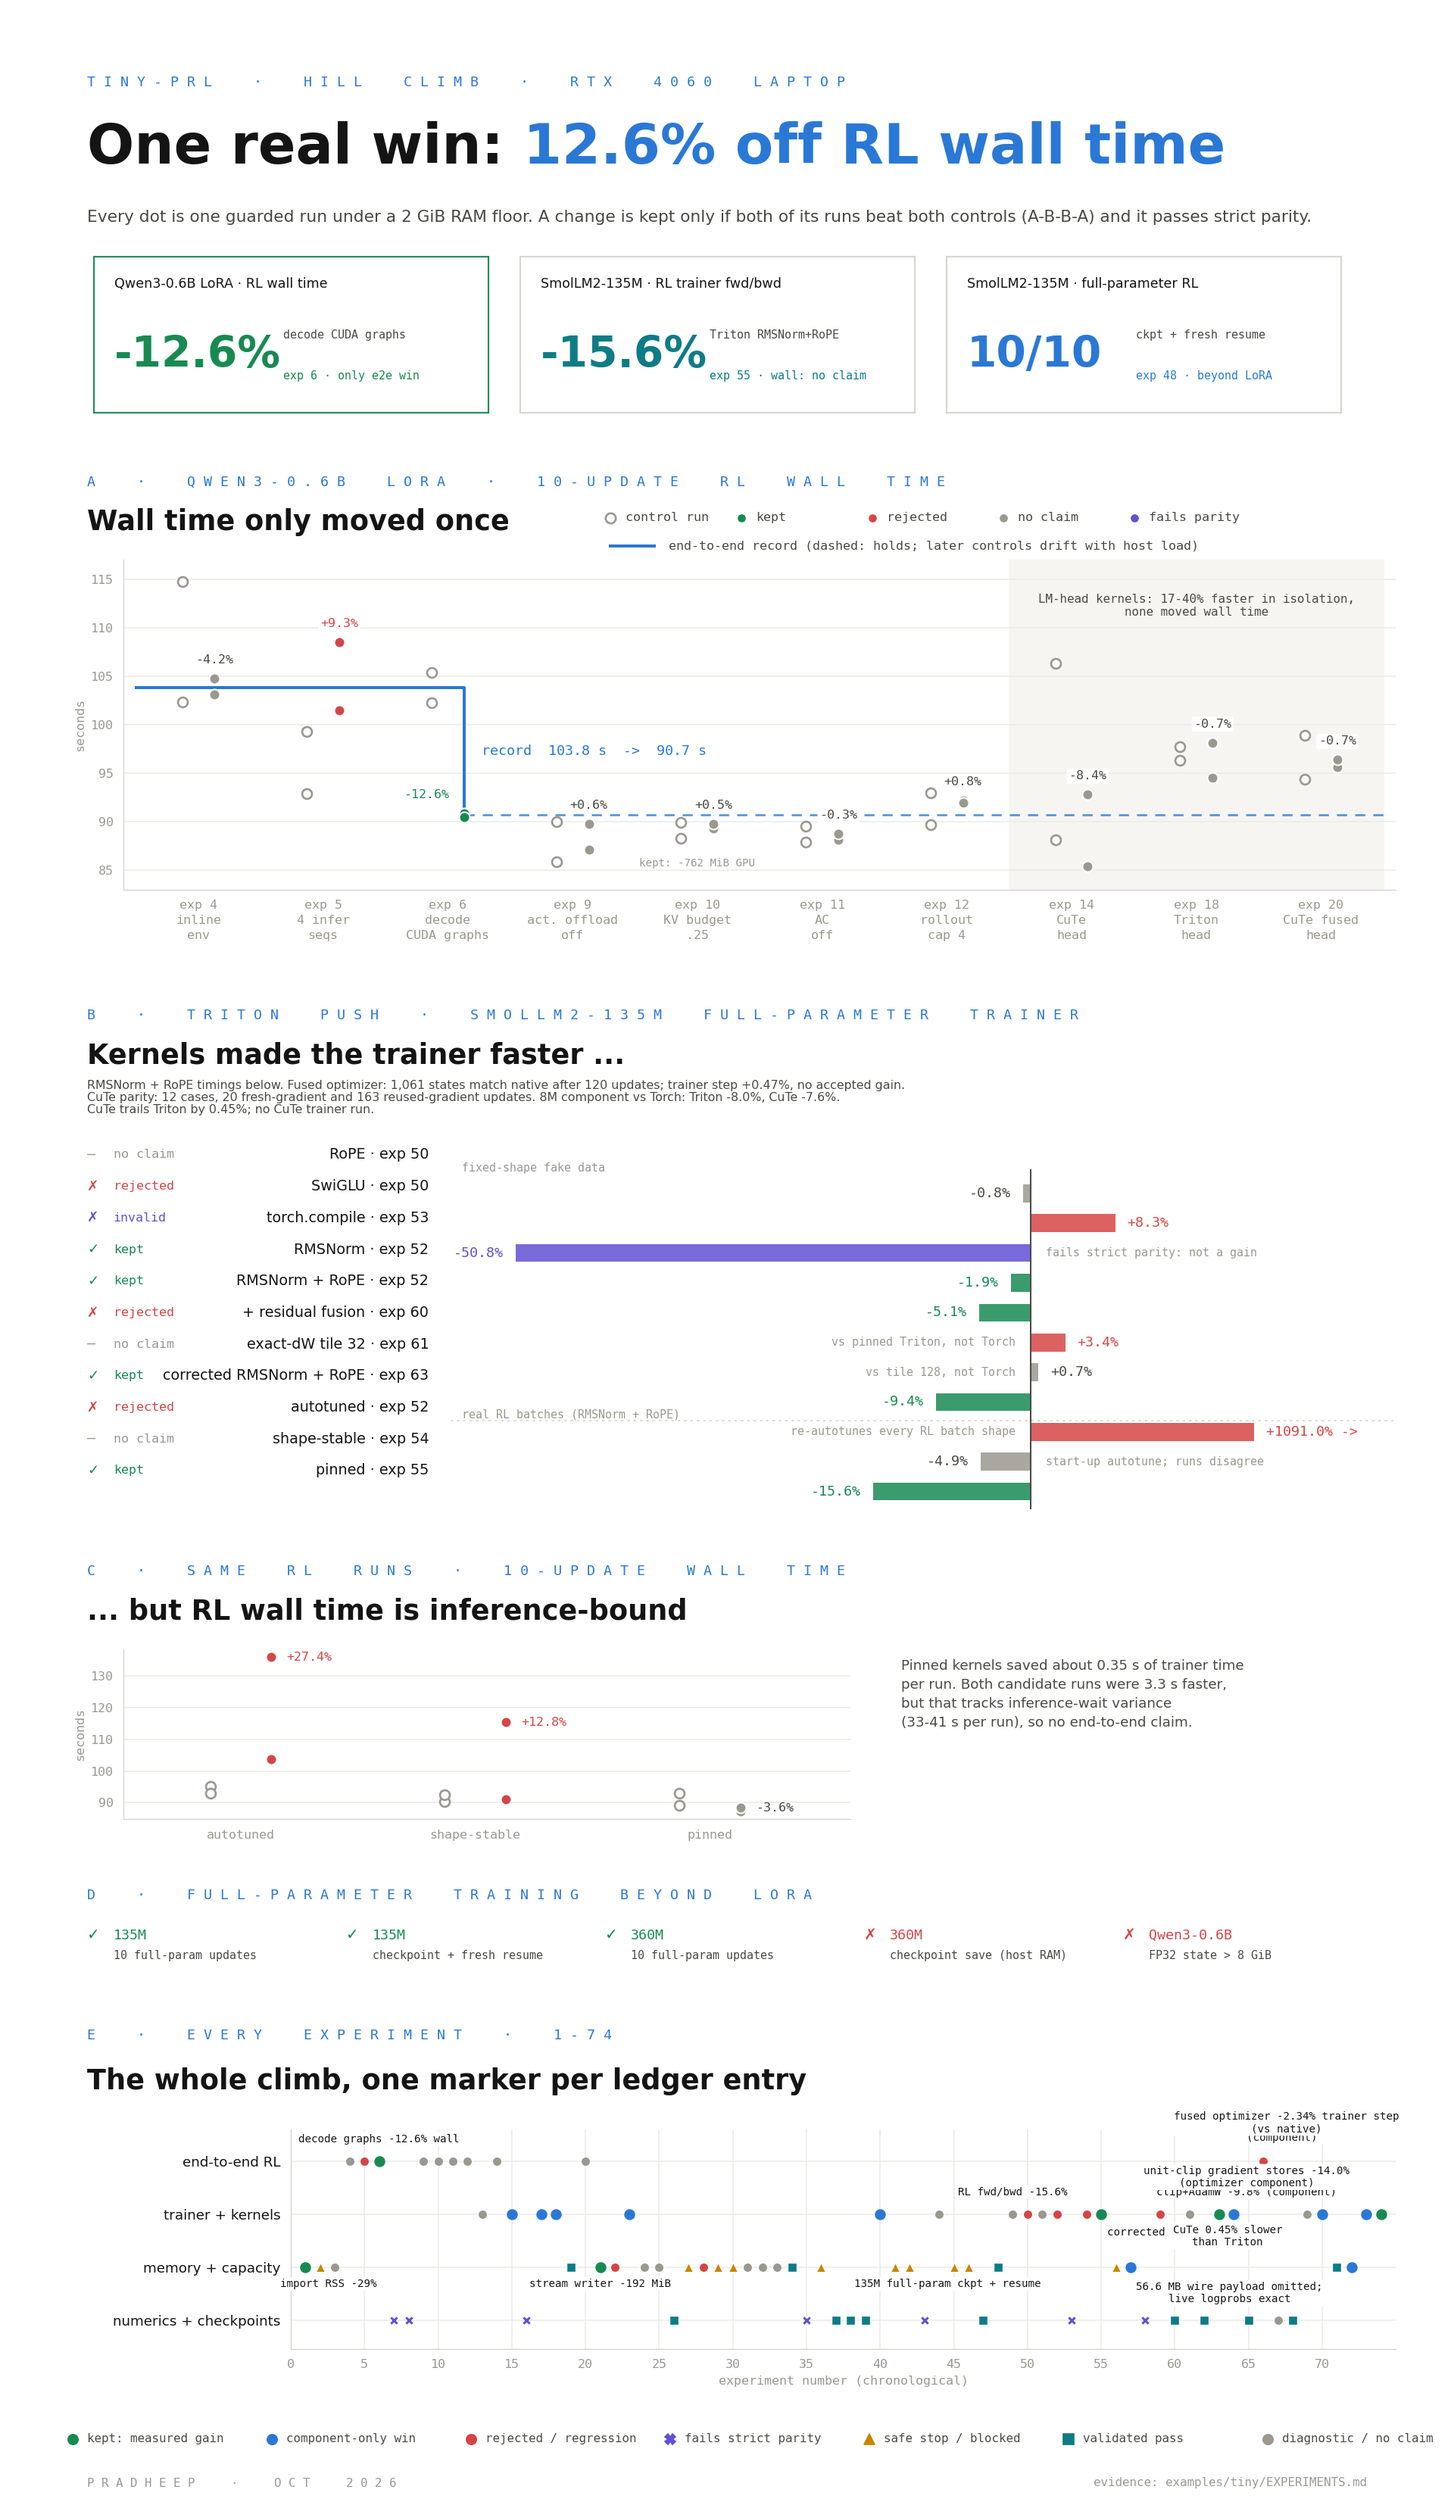
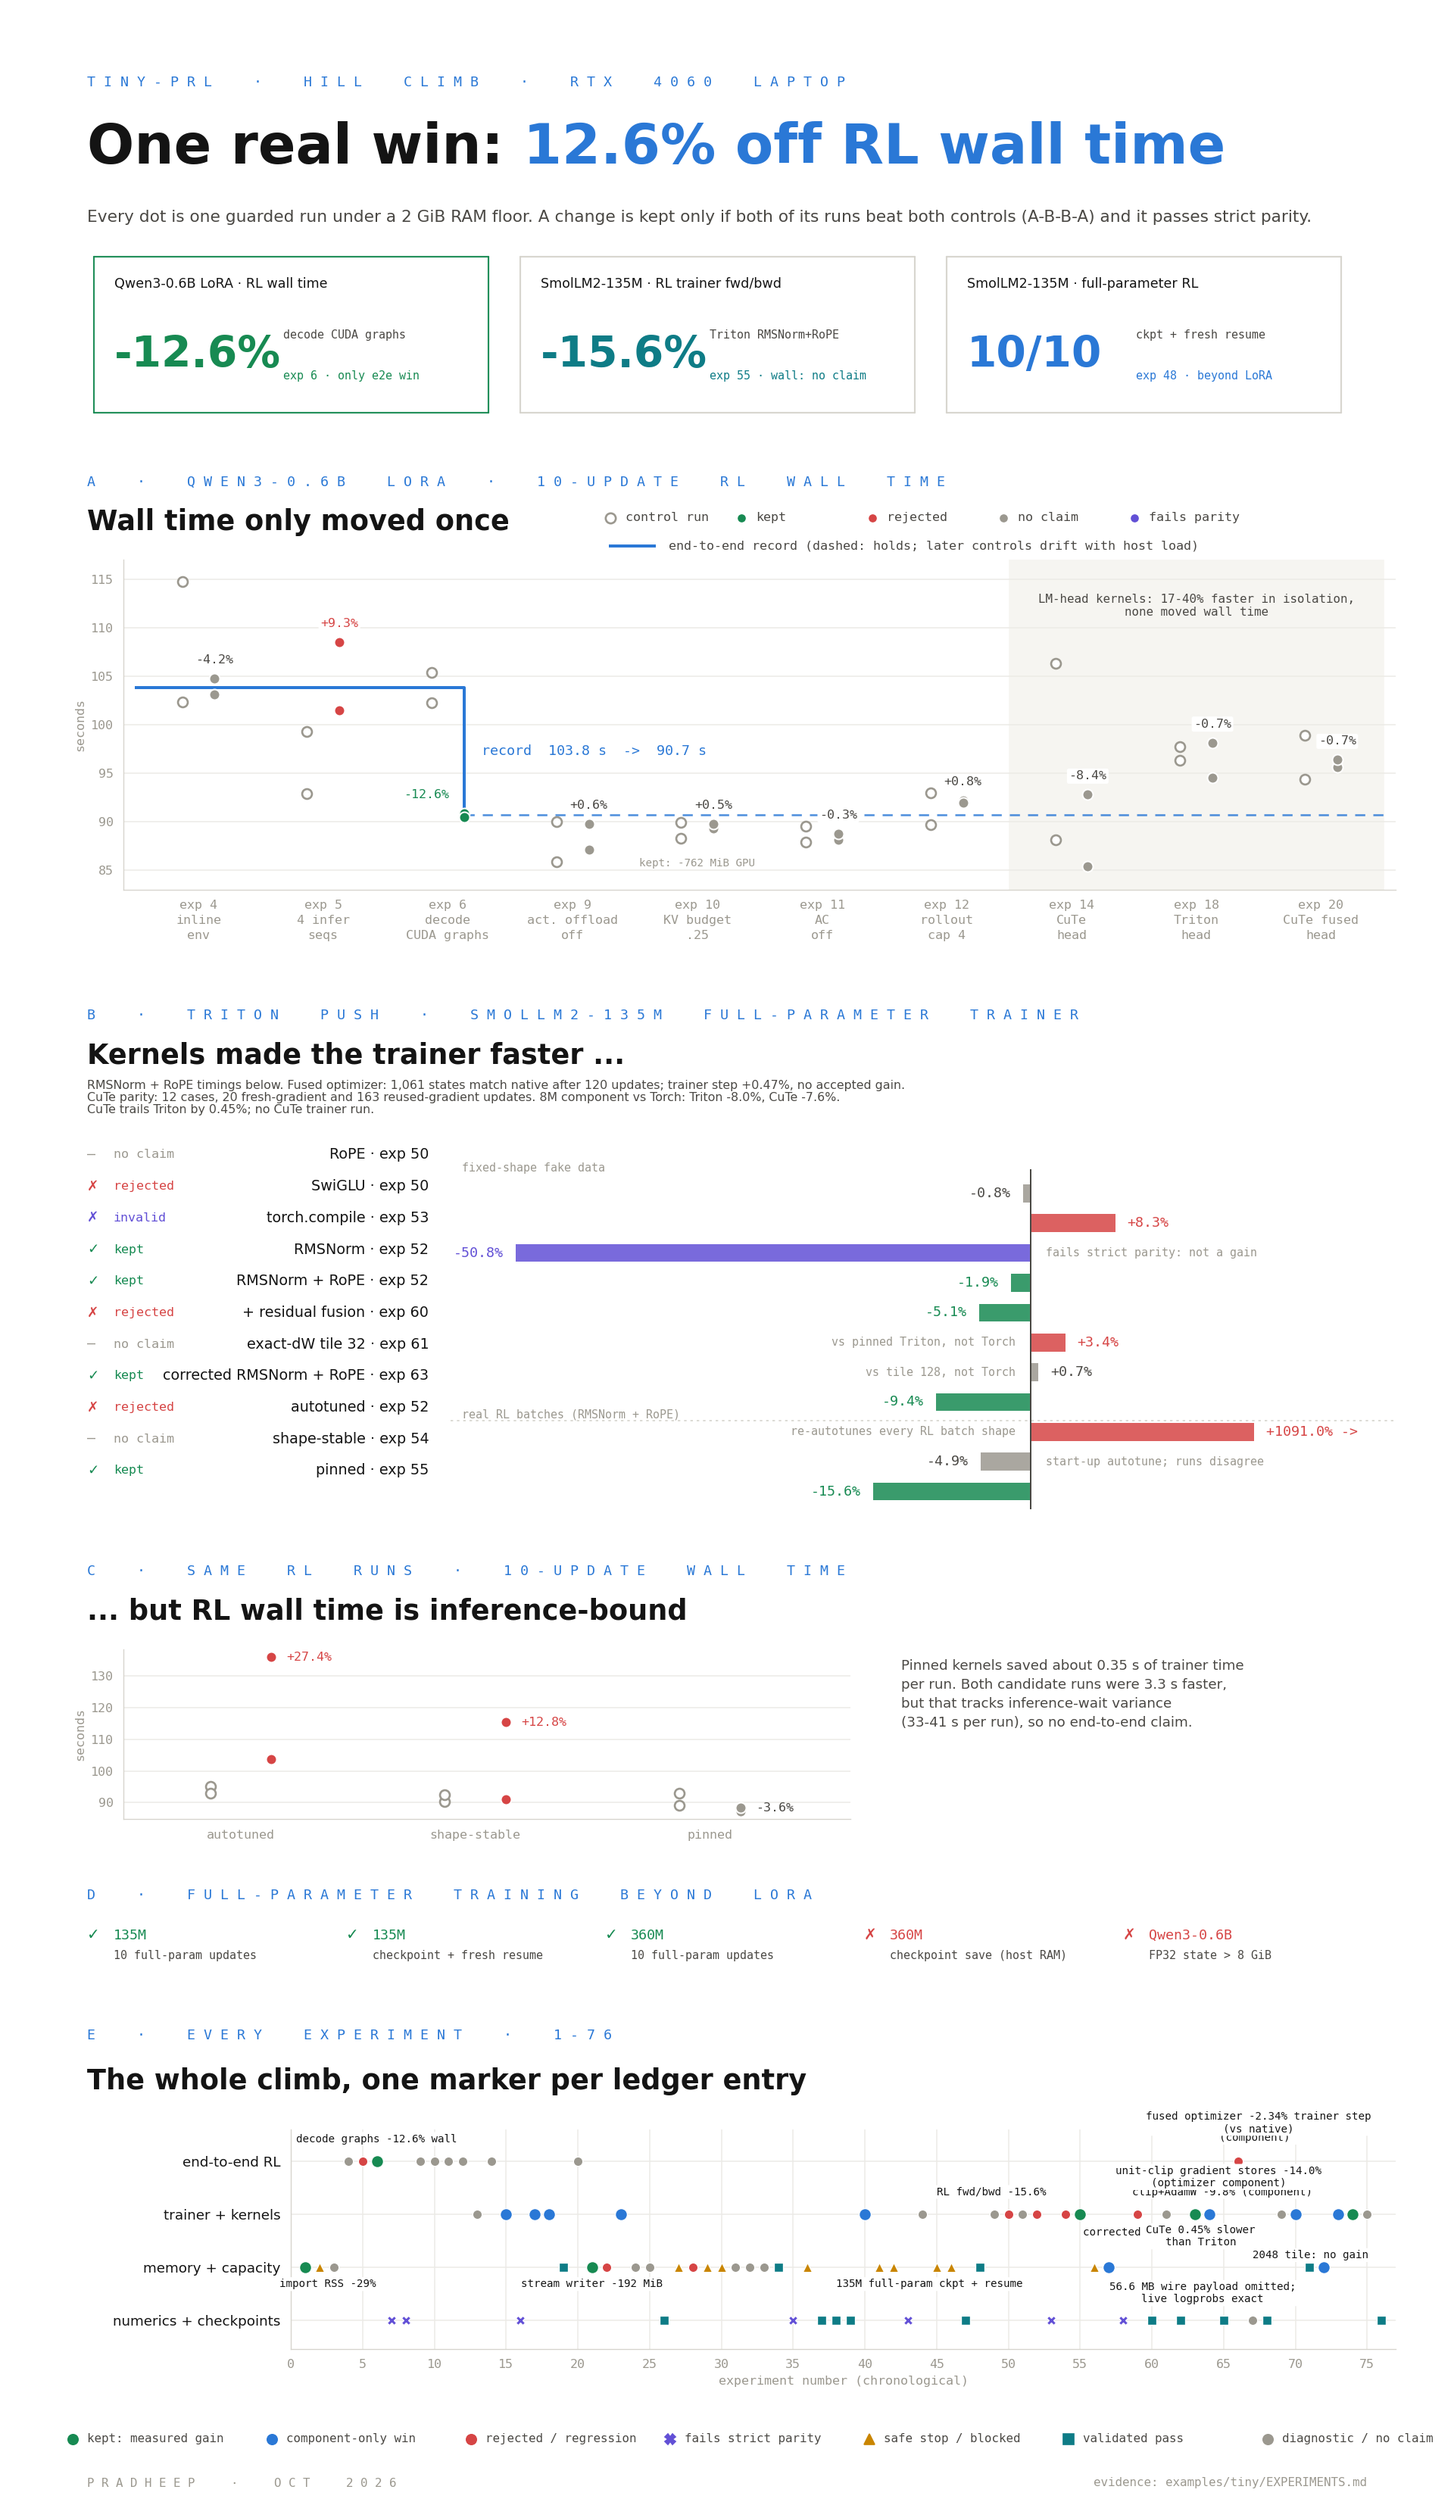
Record tile retest and CUDA IPC feasibility

diff --git a/tools/plot_tiny_hillclimb.py b/tools/plot_tiny_hillclimb.py
@@ -170,6 +170,8 @@ EXPERIMENTS = {
     72: (MEM, "component"),
     73: (TRAIN, "component"),
     74: (TRAIN, "kept"),
+    75: (TRAIN, "none"),
+    76: (NUM, "validated"),
 }
 # Callout text with (dx, dy) offsets in points, staggered so neighbours do not collide.
 CALLOUTS = {
@@ -185,6 +187,7 @@ CALLOUTS = {
     72: ("streaming save -20.3%\n(component)", (-55, 100)),
     73: ("unit-clip gradient stores -14.0%\n(optimizer component)", (-95, 22)),
     74: ("fused optimizer -2.34% trainer step\n(vs native)", (-75, 65)),
+    75: ("2048 tile: no gain", (-45, -35)),
 }
 
 MILESTONES = [

diff --git a/examples/tiny/EXPERIMENTS.md b/examples/tiny/EXPERIMENTS.md
@@ -733,3 +733,17 @@ Four unprofiled actual SmolLM2-135M full-parameter trainer runs used native clip
 For warm steps 11–40, averaging the two per-run medians, step time fell from 287.800 to 281.064 ms (-2.34%). A1/A2 medians were 287.313/288.288 ms; B1/B2 were 280.073/282.055 ms, so both candidates beat both controls. The trainer's `time/forward_backward` metric fell from 265.982 to 263.216 ms (-1.04%), also with both candidate runs faster than both controls. That metric includes clipping, optimizer, gradient clearing and scheduler work; it is not isolated forward/backward time.
 
 This establishes a trainer-only gain for the current fused optimizer versus native clipping plus Torch AdamW in this configuration. It is not an isolated old-versus-new fused-kernel comparison, nor a whole-RL gain; Experiment 69's earlier fused version remains a separate historical result. All four guards returned 0 without intervention, with minimum available RAM at least 2.53 GB and GPU peak at most 3,057 MiB. Evidence: `outputs/tiny-kernel-20261020/clip-adamw-trainer/optim-abba-r2/{summary.json,source-hashes.txt,A1/,B1/,B2/,A2/}`. Kernel pin: `a63098fb450708ce5100daa0e5bc2db61dbbdc35`.
+
+## Experiment 75: larger optimizer tiles do not improve warmed component time
+
+An isolated 2048-element/eight-warp update tile retained the current 1024-element/four-warp kernel's arithmetic, FTZ settings, bias preparation and gradient-store mask. It passed full-layout bitwise parity across 12 single-update cases, 20 fresh-gradient and 163 reused-gradient updates, plus the captured update-102 regression and special gradient bit patterns. Its guard returned 0 in 20.25 seconds, with 3.96 GB minimum available RAM and 4,773 MiB GPU peak.
+
+The first short benchmark drifted from approximately 19 to 16.5 ms within its unit-coefficient section, so its aggregate comparison is not accepted. A held-out A-B-B-A-B-A-A-B run then used 50 synchronized warmup updates before each eight-sample trial, with only a canonical state plus one active arm resident. At coefficient one, current and candidate medians were 16.49578 and 16.50330 ms (+0.046%); at coefficient one third, 18.97984 and 19.01261 ms (+0.173%). Neither establishes a gain. The held-out guard returned 0 in 19.90 seconds, with 4.14 GB minimum available RAM and 4,253 MiB GPU peak. Sampled active-run telemetry showed stable 2610 MHz SM / 8001 MHz memory clocks; GPU utilization is not MFU. Production retains the 1024-element tile.
+
+Evidence: `outputs/tiny-kernel-20261020/cute-clip-adam/clip-noop/tile2048-r1/{clip_adamw_tile2048.py,tile2048_parity.py,result-parity-r1.json,guard-parity-r1/result.json,tile2048_bench.py,result-bench-r1.json,tile2048_bench_r2.py,result-bench-r2.json,guard-bench-r2/result.json,telemetry-bench-r2.csv}`. Cached TTGIR/PTX inspection found the current update uses one element per thread in its blocked layout and repeated scalar global-memory instructions; an aligned vector-memory prototype is the next separate hypothesis, rather than another unmeasured tile change.
+
+## Experiment 76: same-GPU CUDA IPC passes a bounded transaction probe
+
+A standalone supported `torch.multiprocessing` queue test spawned a producer and receiver on this GPU. Before importing Torch, both processes set expandable segments off. The producer synchronized and exported a 2 MiB BF16 CUDA tensor; the receiver copied it into an existing CUDA destination, synchronized, hashed exact bytes and acknowledged its generation. Only after ACK did the producer mutate the source and send a second generation. Both generations matched the producer's expected SHA-256, and the source remained alive until the receiver released its imported tensor. No CPU-tensor fallback was allowed.
+
[1 lines of base64/hex data omitted]
